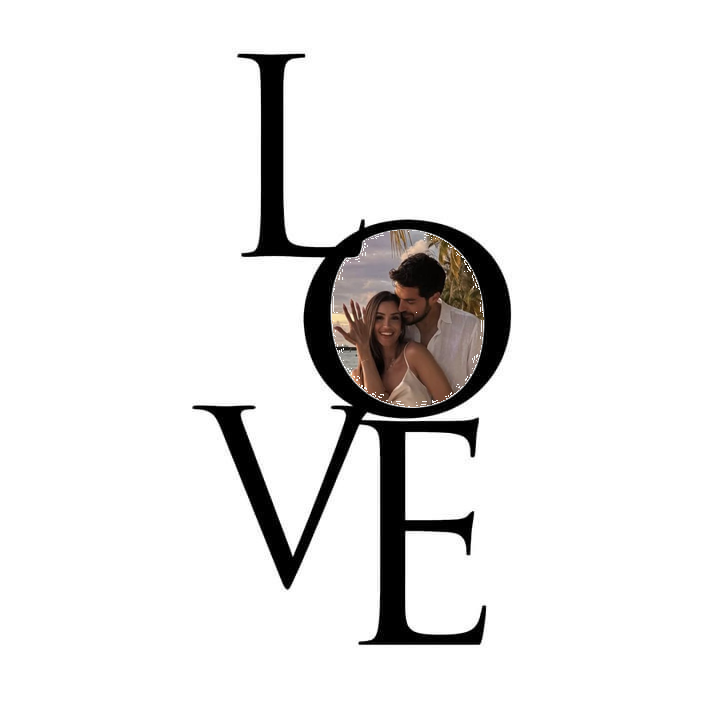
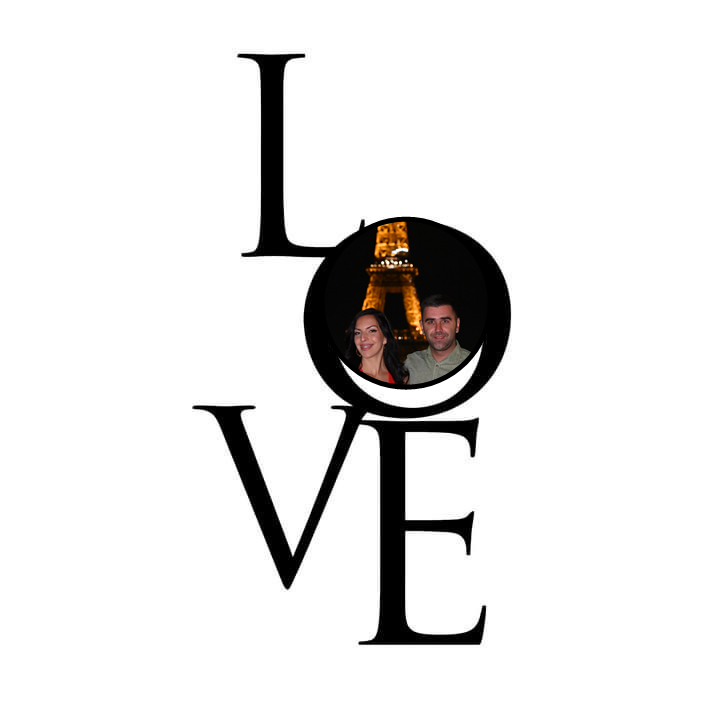
picture update

Changed region(s): [[0.4583, 0.275, 0.6722, 0.5806]]

diff --git a/src/sections/CalendarSection.jsx b/src/sections/CalendarSection.jsx
@@ -55,8 +55,12 @@ export default function CalendarSection({ id }) {
             return (
               <span
                 key={`${day || "empty"}-${index}`}
-                className={isCelebrationDate ? "calendar-day is-marked" : "calendar-day"}
-                aria-label={isCelebrationDate ? "6. septembar 2026." : undefined}
+                className={
+                  isCelebrationDate ? "calendar-day is-marked" : "calendar-day"
+                }
+                aria-label={
+                  isCelebrationDate ? "6. septembar 2026." : undefined
+                }
               >
                 {isCelebrationDate ? (
                   <>

diff --git a/src/sections/HeroSection.jsx b/src/sections/HeroSection.jsx
@@ -2,10 +2,10 @@ export default function HeroSection({ id }) {
   return (
     <section id={id} className="hero-section">
       <div className="hero-inner">
-        <p className="hero-names">Matea i Danilo</p>
+        <p className="hero-names">MATEA & DANILO</p>
 
         <div className="hero-love-row">
-          <p className="hero-vertical-text">Love governs the world.</p>
+          <p className="hero-vertical-text">Love governs the world</p>
           <img
             className="hero-love-image"
             src="/love-profile-cropped.png"